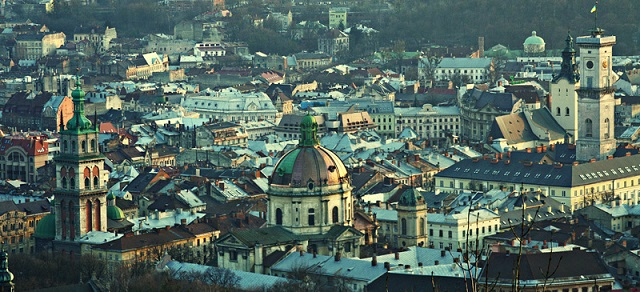
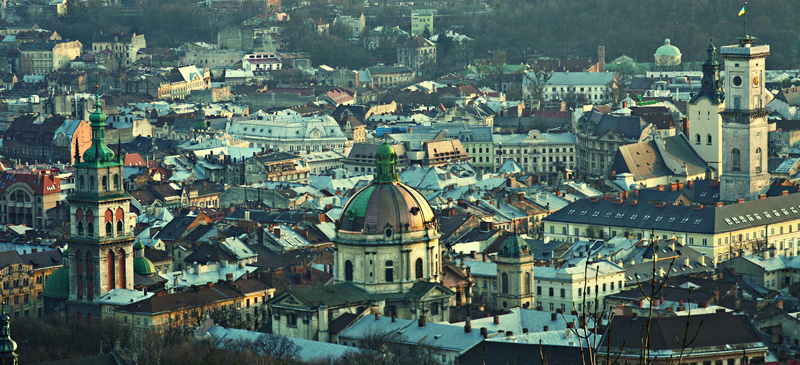
er

diff --git a/index.html b/index.html
@@ -3,16 +3,13 @@
     <head>
         <meta charset="utf-8">
         <meta http-equiv="X-UA-Compatible" content="IE=edge,chrome=1">
-<!--
-Tinker Template
-http://www.templatemo.com/tm-506-tinker
--->
+        
         <title>Tinker CSS Template</title>
         <meta name="description" content="">
         <meta name="viewport" content="width=device-width, initial-scale=1">
         
-        <link href="https://fonts.googleapis.com/css?family=Open+Sans:300,400,600,700,800" rel="stylesheet">
-        <link href="https://fonts.googleapis.com/css?family=Roboto:100,300,400,500,700,900" rel="stylesheet">
+        <!-- <link href="https://fonts.googleapis.com/css?family=Open+Sans:300,400,600,700,800" rel="stylesheet">
+        <link href="https://fonts.googleapis.com/css?family=Roboto:100,300,400,500,700,900" rel="stylesheet"> -->
         
         <link rel="apple-touch-icon" href="apple-touch-icon.png">
 

diff --git a/css/templatemo-style.css b/css/templatemo-style.css
@@ -211,7 +211,7 @@ bootstrap.min.css:5
 	width: 100%;
   	padding-top: 35vh;
   	text-align: center;
-  	background-image: url(../img/lviv.jpg);
+  	background-image: url(../img/banner_bg.jpg);
   	vertical-align: middle;
 }
 
